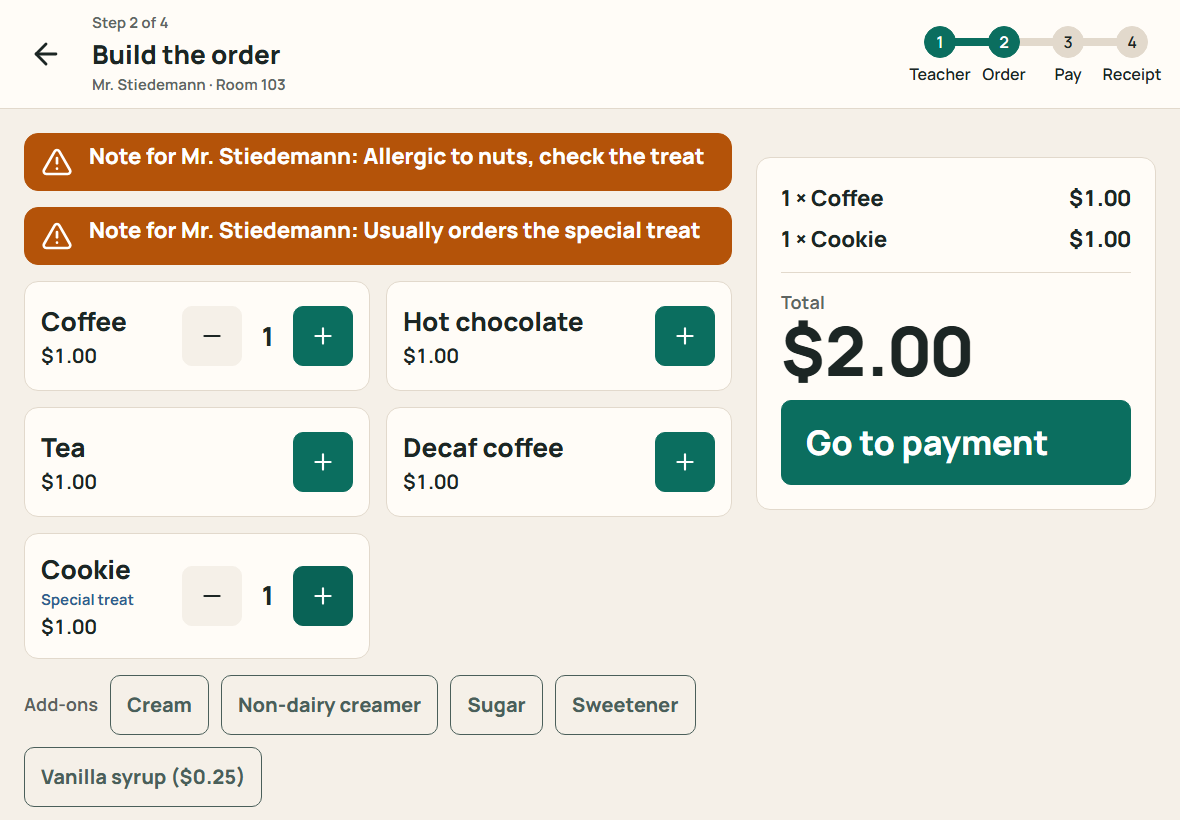
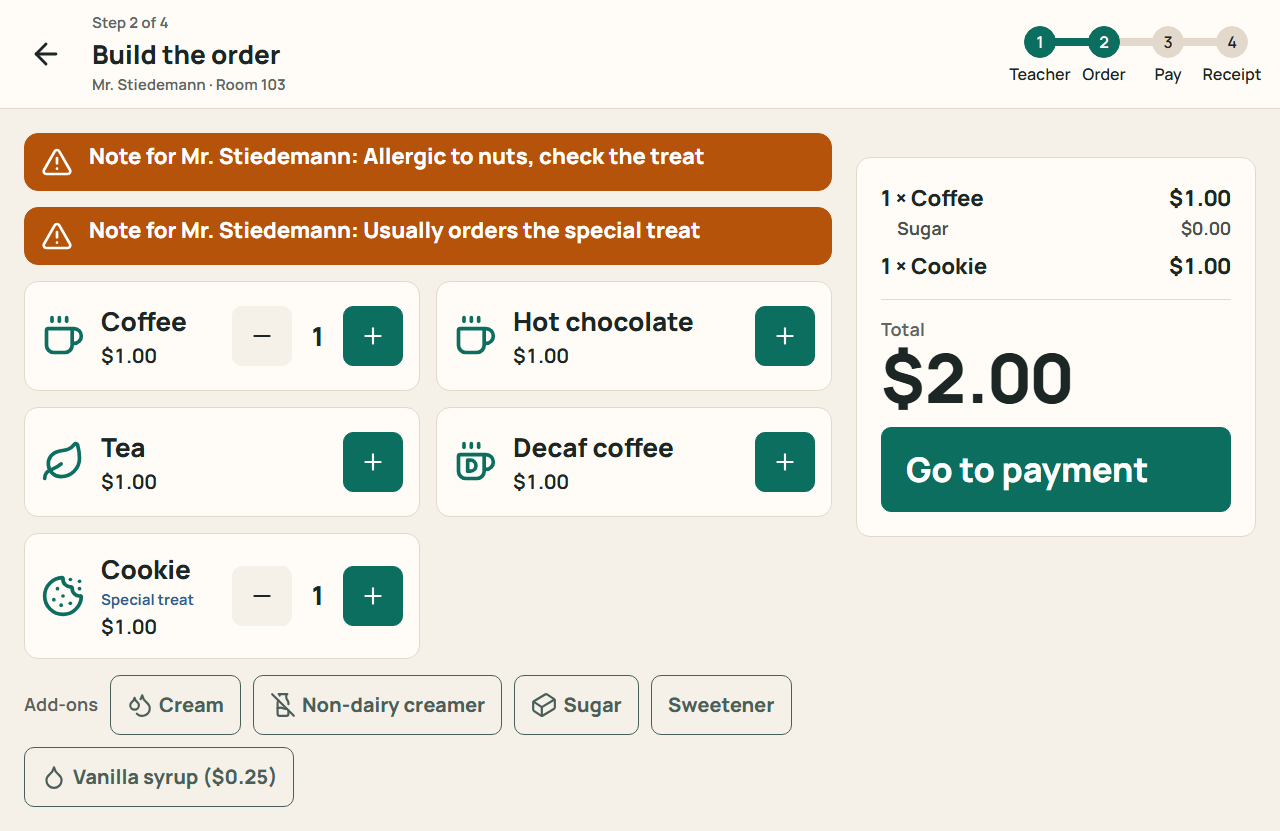
docs(4.14): the README, screenshots and deployment guide show the app as it is now
- ADR 15: why menu pictures are a fixed set of line icons rather than emoji
  or uploads.
- A new order-builder screenshot with the pictures, used on the landing page
  too, and a screenshot of the picture picker.
- The README now mentions the pictures, the demo and NEXT_PUBLIC_SITE_MODE,
  and lists the demo code, scripts/ and docs/plans.
- DEPLOYMENT.md explains keeping every copy up to date: migrate every
  database, the demo's included, before pushing code that needs it.

diff --git a/README.md b/README.md
@@ -35,6 +35,9 @@ information architecture:
   nowhere else. On a narrow screen it shrinks to fit its card rather than be cut
   off.
 - No free-text entry anywhere in the student flow except teacher notes.
+- Menu items and add-ons can carry a picture beside the name, for students who
+  cannot read the words yet: line icons from a fixed set, not emoji, which look
+  different on every device.
 
 The whole app, student and staff sides, meets WCAG 2.2 AA, and that is tested
 rather than reviewed: see [Testing](#testing).
@@ -48,7 +51,9 @@ rather than reviewed: see [Testing](#testing).
 
 Saved notes about a customer render above the menu and cannot be collapsed.
 Remembering the customer is one of the program's stated goals, so the layout
-enforces it rather than trusting the student to look.
+enforces it rather than trusting the student to look. The pictures beside the
+names were asked for by the program's teacher; decaf gets a mug with a D.
+→ [ADR 15](docs/adr/0015-menu-pictures.md)
 
 ## For the staff who run it
 
@@ -63,6 +68,10 @@ Colors page; neither needs a developer.
 |---|---|
 | ![Admin home](docs/screenshots/admin-home.png) | ![The tour on a phone](docs/screenshots/admin-tour-phone.png) |
 | The setup checklist, from students to a first sale. | "Show me around", on a phone. |
+
+<img src="docs/screenshots/menu-pictures.png" alt="The picture picker on the Menu page: a grid of twenty line icons, from a mug to popcorn" width="420">
+
+Staff choose a picture for each item from a grid; there is nothing to type.
 
 ## Architecture
 
@@ -212,13 +221,16 @@ production build has left files in `.next`; delete it and run again.
 
 ```
 src/app/          routes and server actions only
-  (student)/      the cart: sign-in, shift, order, change, inventory, clock-out
+  (student)/      the cart: sign-in at /cart, shift, order, change, inventory, clock-out
   (admin)/admin/  the staff side, and _help/ (guides, page help, tour)
+  demo/           the public demo's actions: admin entry, Start over
+  landing.tsx     the landing page, shown at / in demo mode
 src/lib/          business logic, importable without Next.js (money, colours,
                   help content, setup checklist, sign-in, settings)
 src/providers/    printer, email and renderers behind interfaces
-src/db/           schema, client, seed
+src/db/           schema, client, seed (also the demo's hourly reset)
 drizzle/          migrations, each with its RLS and constraints
+scripts/          icon rendering, and the demo's test database
 tests/            Vitest (unit and database) and tests/e2e (Playwright)
 docs/             game plan, design system, ADRs, deployment and iPad guides
 ```
@@ -245,6 +257,7 @@ values through the environment; nothing school-specific is committed.
 | `NEXT_PUBLIC_REWARD_NAME` | Tickets |
 | `NEXT_PUBLIC_LOGO_URL` | The PocketClerk mark, in the sign-in email |
 | `NEXT_PUBLIC_TIME_ZONE` | America/New_York |
+| `NEXT_PUBLIC_SITE_MODE` | `instance`, a school's copy; `demo` only for pocket-clerk.com |
 | Main colour | The pocketclerk theme's teal; staff change it on the admin Colors page |
 
 Visit `/themes` to see the same components under both committed themes.
@@ -257,6 +270,7 @@ Visit `/themes` to see the same components under both committed themes.
 | [`docs/DESIGN.md`](docs/DESIGN.md) | Design system: themes, type scale, breakpoints, primitives |
 | [`docs/adr/`](docs/adr) | Architecture decision records |
 | [`docs/specs/`](docs/specs) | Design specs for larger pieces of work |
+| [`docs/plans/`](docs/plans) | The implementation plans that followed them |
 | [`docs/DEPLOYMENT.md`](docs/DEPLOYMENT.md) | Deploying to Vercel and Supabase, free tier |
 | [`docs/IPAD_SETUP.md`](docs/IPAD_SETUP.md) | One-page iPad guide for whoever runs the cart |
 | [`CONTRIBUTING.md`](CONTRIBUTING.md) | How to run, check and contribute |
@@ -269,8 +283,11 @@ change, print or email the receipt, view today's orders, count the inventory,
 restock, work the closing checklist, clock out.
 
 The staff side has sign-in, a dashboard with the setup checklist and every guide,
-management of students, teachers, the menu, administrators and the site's colour,
-an orders browser and a receipt delivery monitor with retry.
+management of students, teachers, the menu (with pictures), administrators and
+the site's colour, an orders browser and a receipt delivery monitor with retry.
+
+The first school runs its own copy on a subdomain, and pocket-clerk.com is the
+public demo, reset every hour.
 
 Payroll, reports and the export are next. See
 [`docs/GAME_PLAN.md`](docs/GAME_PLAN.md).

diff --git a/docs/adr/0015-menu-pictures.md b/docs/adr/0015-menu-pictures.md
@@ -1,0 +1,36 @@
+# 15. Pictures beside menu names, from a fixed set
+
+Status: accepted (ticket 4.14)
+
+## Context
+
+The first program's teacher asked for pictures next to the drink names: some
+students cannot read the menu yet, and could not find sugar or syrup. Her
+examples were emoji.
+
+## Decision
+
+Staff can give any menu item or add-on one optional picture, chosen from a grid
+on the Menu page. The pictures are a fixed set of twenty line icons
+(`src/lib/menu-icons.ts`) from the same icon family as the rest of the app, not
+emoji, and not uploads:
+
+- Emoji are drawn by the device, so the same menu looks different on the iPad, a
+  phone and a Windows laptop, and their colour and detail clash with the rest of
+  the screen.
+- Uploaded images would need storage, moderation and sizing, for a feature
+  whose whole value is being simple and consistent.
+- Where the icon family had nothing clear, the icon was drawn from its parts:
+  decaf is the mug with a D, built with Lucide's own `createLucideIcon` so the
+  line weight matches.
+
+The column is text with a CHECK constraint listing the keys, so the database
+refuses anything outside the set, and a test fails if the constraint and the
+list drift apart. The icon is `aria-hidden`: the name beside it is the label.
+
+## Consequences
+
+- Adding a picture takes a migration that widens the constraint, as well as a
+  line in the list. That is deliberate friction for a list meant to stay short.
+- Some items share a picture (coffee and hot chocolate are both a mug), so the
+  words still matter; the help guide says so.

diff --git a/docs/DEPLOYMENT.md b/docs/DEPLOYMENT.md
@@ -281,6 +281,20 @@ pocket-clerk.com is the same code in demo mode, with a database of its own.
 It resets itself on the first visit after each hour, and on **Start over** at
 most every five minutes. No cron is needed.
 
+## Keeping every copy up to date
+
+Every copy deploys from `main`, so a push updates the demo and every school at
+once. Migrations do not run on deploy: when a change adds one, apply it to
+**every** database, the demo's included, before pushing the code that needs it.
+New columns are added so the running code keeps working in the meantime.
+
+```bash
+DIRECT_URL="<each database in turn>" pnpm db:migrate
+```
+
+Then load `/api/health` on every copy: `migrations` should show the same
+`applied` and `expected` count everywhere.
+
 ## Things that can go wrong
 
 **"DATABASE_URL is not set"** on Vercel means the variable was added to only one
